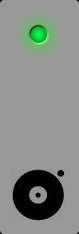
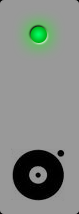
Added Sample Selector button to the side panel. Arm is now lifted a little when it is moved on the disk.

Changed region(s): [[0.1519, 0.6729, 0.8101, 0.9533], [0.3544, 0.757, 0.6076, 0.8972], [0.3544, 0.0841, 0.6076, 0.2243]]

diff --git a/src/qml/Arm.qml b/src/qml/Arm.qml
@@ -4,9 +4,11 @@ Item {
     id: arm
 
     property real angle: 0
-    property real armOnDiskOffset: 0
     property bool armdown: false
     property real positionOnDisk: 0   // Values from 0.0 - 1.0
+
+    property int minAngleOnDisk: 23
+    property int maxAngleOnDisk: 43
 
     signal armReleasedByUser(real position)
 
@@ -15,13 +17,15 @@ Item {
     function setPositionOnDisk(position) {
         if(armdown) {
             positionOnDisk = position
-            angle = (43 - 23) * position + 23
+            angle = (maxAngleOnDisk - minAngleOnDisk) * position
+                    + minAngleOnDisk
         }
     }
 
     function updateArmDown(userMoving) {
-        if(angle > 23 && userMoving == false) {
-            arm.armReleasedByUser((angle - 23) / (43 - 23))
+        if(angle > minAngleOnDisk && userMoving == false) {
+            arm.armReleasedByUser((angle - minAngleOnDisk)
+                                  / (maxAngleOnDisk - minAngleOnDisk))
             armdown = true
         }
         else {
@@ -48,10 +52,18 @@ Item {
             left: parent.left; right: parent.right
         }
 
-        transform: Rotation {
-            origin.x: width / 2; origin.y: 0
-            angle: arm.angle
-        }
+        transform: [
+            Rotation {
+                origin.x: width / 2; origin.y: 0
+                angle: arm.angle
+            },
+            Rotation {
+                axis { x: 1; y: 0; z: 0 }
+                origin.x: width / 2; origin.y: 0
+                angle: arm.armdown ? 0 : 4
+                Behavior on angle { SmoothedAnimation { velocity: 40 } }
+            }
+        ]
 
         Image {
             anchors {
@@ -90,8 +102,8 @@ Item {
                 var xdistance = -(object.x - pedal.centerX)
                 var ydistance = object.y - pedal.centerY
                 var angle = Math.atan(xdistance / ydistance) * 57.2957795
-                if(angle > 43)
-                    angle = 43
+                if(angle > arm.maxAngleOnDisk)
+                    angle = arm.maxAngleOnDisk
                 else if(angle < 0)
                     angle = 0
 
@@ -120,18 +132,23 @@ Item {
     SequentialAnimation {
         id: moveToDisk
 
+        ScriptAction { script: dragMouse.enabled = false }
+        ScriptAction { script: arm.armdown = false }
         SmoothedAnimation {
-            target: arm; property: "angle"; to: 23; velocity: 23
+            target: arm; property: "angle"; to: arm.minAngleOnDisk; velocity: 23
         }
         ScriptAction { script: { arm.armdown = true } }
+        ScriptAction { script: dragMouse.enabled = true }
     }
 
     SequentialAnimation {
         id: moveToStop
 
+        ScriptAction { script: dragMouse.enabled = false }
         ScriptAction { script: arm.armdown = false }
         SmoothedAnimation {
             target: arm; property: "angle"; to: 0; velocity: 23
         }
+        ScriptAction { script: dragMouse.enabled = true }
     }
 }

diff --git a/src/qml/SidePanel.qml b/src/qml/SidePanel.qml
@@ -5,20 +5,54 @@ Rectangle {
 
     signal turnTableClicked()
     signal drumMachineClicked()
-    signal openSampleSelector()
+    signal sampleSelectorClicked()
 
+    property bool sampleSelectorButtonPressed: false
     property bool turnTableButtonPressed: false
     property bool drumMachineButtonPressed: false
     property bool turnTableLedOn: false
     property bool drumMachineLedOn: false
 
-    width: 100; height: 400
     color: "black"
+    width: 100; height: 400
+
+    BorderImage {
+        id: settingsButton
+
+        anchors {
+            left: parent.left
+            right: parent.right; rightMargin: 2
+        }
+        height: width
+        source: sidepanel.sampleSelectorButtonPressed
+                    ? "images/buttonpressed.sci"
+                    : "images/buttonup.sci"
+
+        Image {
+            anchors.centerIn: parent
+            width: parent.width * 0.5 ; height: width
+            source: "images/iconsampleselector.png"
+            smooth: true
+        }
+
+        MouseArea {
+            anchors.fill: parent
+            onPressed: sidepanel.sampleSelectorClicked()
+        }
+    }
 
     Image {
         id: turnTableButton
 
-        width: parent.width - 2; height: parent.height / 2 - 1
+        anchors {
+            left: parent.left
+            right: parent.right; rightMargin: 2
+            top: settingsButton.bottom; topMargin: 2
+        }
+
+        height: (parent.height - settingsButton.height) / 2 - 1
+
+
         smooth: true
         source: {
             if(turnTableButtonPressed) {
@@ -31,19 +65,25 @@ Rectangle {
             }
         }
 
+
         MouseArea {
             anchors.fill: parent
             onPressed: sidepanel.turnTableClicked()
-            onPressAndHold: sidepanel.openSampleSelector()
         }
     }
 
     Image {
         id: drumMachineButton
 
-        width: parent.width - 2; height: parent.height / 2 - 1
-        y: parent.height / 2 + 1
+        anchors {
+            left: parent.left
+            right: parent.right; rightMargin: 2
+            top: turnTableButton.bottom; topMargin: 2
+            bottom: parent.bottom
+        }
+
         smooth: true
+
         source: {
             if(drumMachineButtonPressed) {
                 if(drumMachineLedOn) {

diff --git a/src/qml/TurnTable.qml b/src/qml/TurnTable.qml
@@ -8,7 +8,7 @@ Rectangle {
 
     // Used when developing with QML Viewer, property is added as
     // context property by Qt in the real application
-    property bool lowPerf: false
+    //property bool lowPerf: false
 
     signal setSample(variant samplePath)
     signal diskSpeed(variant speed)
@@ -67,7 +67,7 @@ Rectangle {
         z: 1
         onTurnTableClicked: flickable.setState("TurnTable")
         onDrumMachineClicked: flickable.setState("DrumMachine")
-        onOpenSampleSelector: flickable.setState("SampleSelector")
+        onSampleSelectorClicked: flickable.setState("SampleSelector")
         turnTableLedOn: turntable.playing
         drumMachineLedOn: drumMachine.ledOn
     }
@@ -516,6 +516,9 @@ Rectangle {
                 name: "SampleSelector"
                 PropertyChanges {
                     target: flickable; contentX: ui.width; contentY: 0
+                }
+                PropertyChanges {
+                    target: sidepanel; sampleSelectorButtonPressed: true
                 }
                 PropertyChanges { target: turntable; opacity: 0 }
                 PropertyChanges { target: mixerpanel; opacity: 0 }

diff --git a/src/qml/SampleSelector.qml b/src/qml/SampleSelector.qml
@@ -129,7 +129,7 @@ Image {
         }
     }
 
-    Image {
+    BorderImage {
         anchors {
             top: title.bottom; topMargin: 10
             left: parent.left; leftMargin: 20
@@ -137,7 +137,7 @@ Image {
             bottom: parent.bottom; bottomMargin: 20
         }
 
-        source: "images/sampleselectorlisting.png"
+        source: "images/buttonpressed.sci"
         clip: true
 
         FolderListModel {

diff --git a/src/qml/DrumMachine/TickGroupSelector.qml b/src/qml/DrumMachine/TickGroupSelector.qml
@@ -1,12 +1,12 @@
 import Qt 4.7
 
-Image {
+BorderImage {
     id: toggleSwitch
 
     property int selectedTickGroup: 1
 
     width: 300; height: 40
-    source: "../images/tickgroupselectorback.png"
+    source: "../images/buttonpressed.sci"
 
     Text {
         anchors.verticalCenter: parent.verticalCenter

diff --git a/src/TurnTable.cpp b/src/TurnTable.cpp
@@ -206,7 +206,7 @@ void TurnTable::setDiscAimSpeed(QVariant value)
 {
     float speed = value.toFloat();
     if(speed > -100.0f && speed < 100.0f) {
-        m_targetSpeed = m_targetSpeed * (1.0f - 0.05f) + speed * 0.05f;
+        m_targetSpeed = m_targetSpeed * (1.0f - 0.10f) + speed * 0.10f;
     }
 }
 

diff --git a/src/main.cpp b/src/main.cpp
@@ -29,7 +29,7 @@ int main(int argc, char *argv[])
     mainWindow.setGeometry(QApplication::desktop()->screenGeometry());
     mainWindow.showFullScreen();
 #else
-    mainWindow.setGeometry(QRect(100, 100, 800, 480));
+    mainWindow.setGeometry(QRect(100, 100, 640, 360));
     mainWindow.show();
 #endif
 
